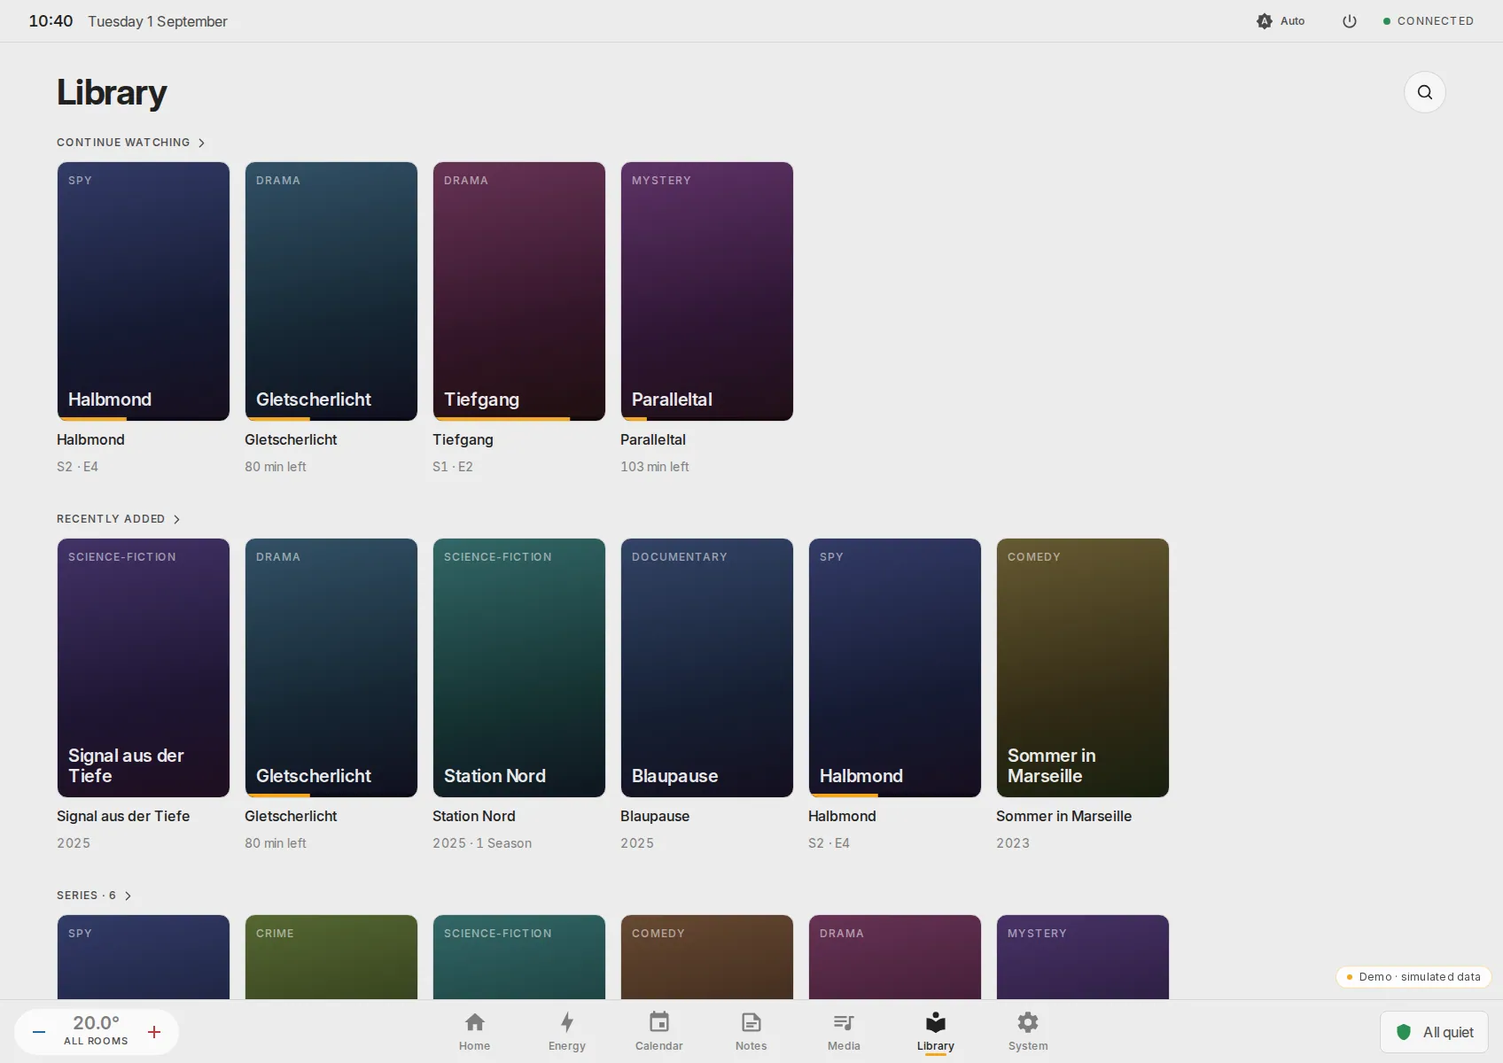
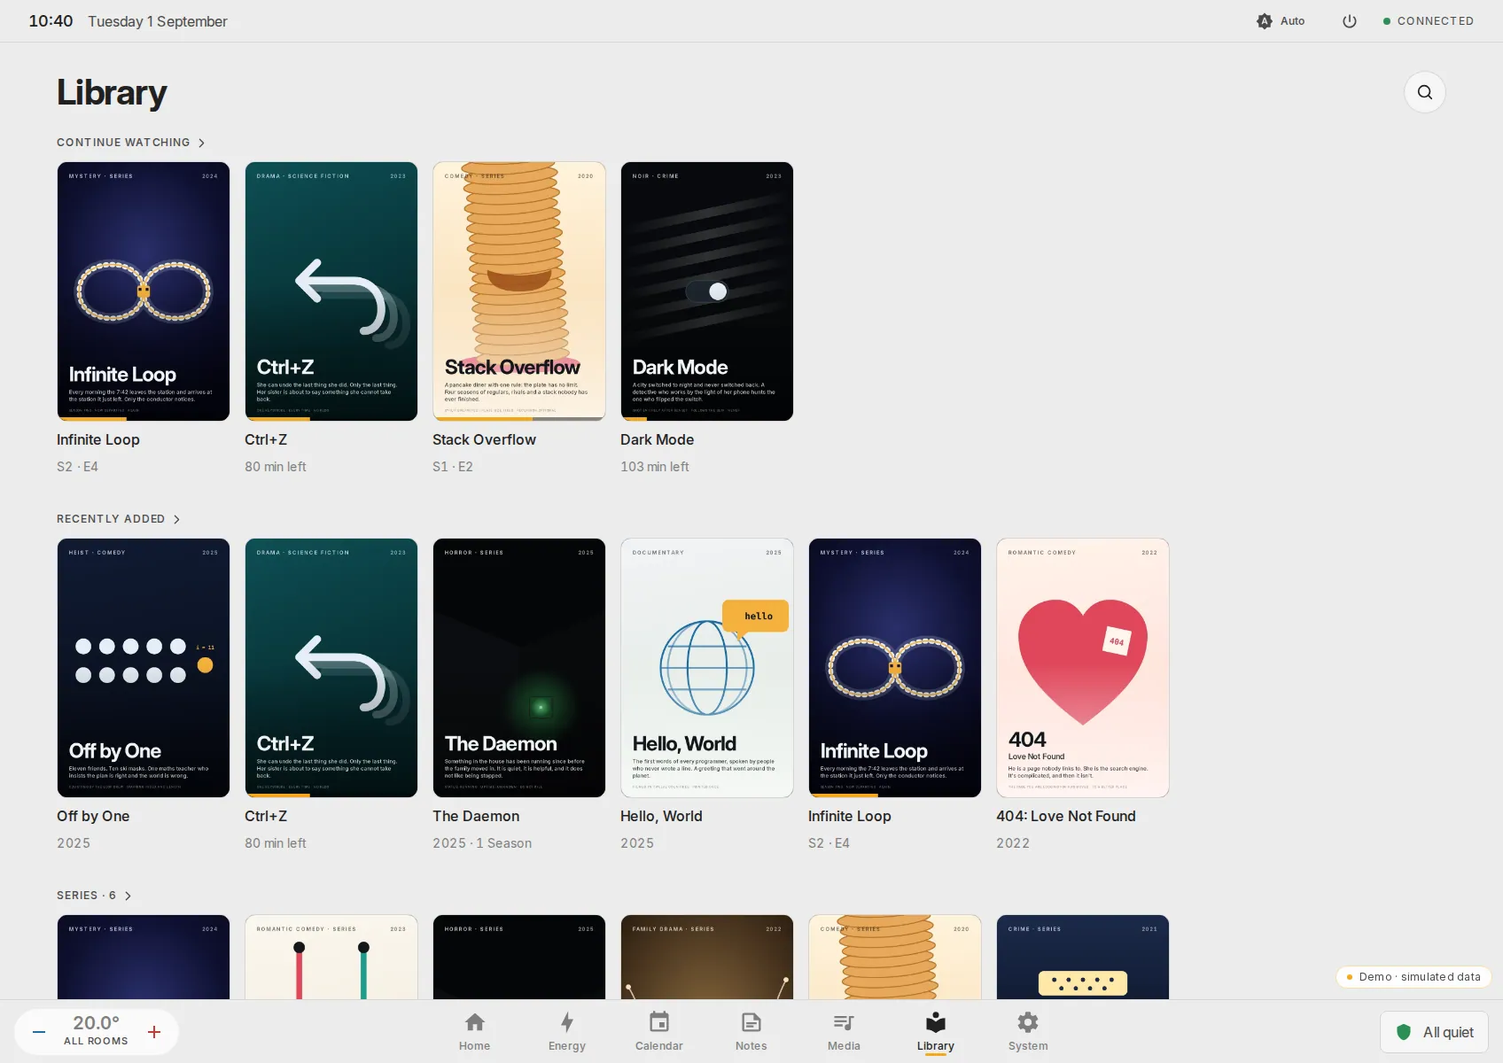
feat(demo): a fictional library with its own posters; season tabs translated
The demo library used to be sixteen German-titled placeholders drawn as
coloured gradients. It is now sixteen invented films and series in
English, each with a poster of its own: "Off by One" (eleven friends, ten
ski masks), "Ctrl+Z", "404: Love Not Found", "The Rubber Duck", "Kernel
Panic" (a popcorn machine with a mind of its own), "The Cache Also Rises",
"Dark Mode", "Big Endian", "Hello, World", "Race Condition", and the
series "Infinite Loop", "Merge Conflict", "Legacy Code", "Serial Port",
"The Daemon" and "Stack Overflow". The jokes lean on words people meet at
a keyboard without needing to write code; genres run from western to
documentary. Overviews, episode titles and taglines are English.

The posters are 640 x 960 WebP files under `public/demo-posters/` (about
320 KB in total) rendered from a small design system in Inter: a genre
line, one graphic idea per title, the title, a tagline and a credits line.
They are static assets outside the offline precache. `LibraryItem` gains
an optional `poster` for the fake data, and MediaCard falls back to it when
no Jellyfin `primaryTag` is set; live libraries are unaffected, and the
`hue` placeholder remains for items without artwork.

The detail screen's season tabs said "Staffel n" in every language; they
use the existing `library_season` message now. The generic fixture
episodes are "Episode n" like the rest of the invented content, without a
message call at module start, because the runtime bootstrap tests load the
[…]

diff --git a/app/src/lib/state/app.svelte.ts b/app/src/lib/state/app.svelte.ts
@@ -77,6 +77,9 @@ export interface LibraryItem {
      bleiben beim `hue`-Platzhalter. Die Poster-URL baut die UI über
      `jellyfin.imageUrl(id, { tag })` zur passenden Render-Größe. */
   primaryTag?: string; backdropTag?: string; logoTag?: string;
+  /* Statisches Poster der Fake-Bibliothek (relative URL unter dem Basispfad
+     des Builds). Nur die Demo-Daten setzen es; die Jellyfin-Zuordnung nie. */
+  poster?: string;
 }
 
 export interface Playback {
@@ -97,14 +100,18 @@ export interface SystemService {
   id: string; name: string; status: 'online' | 'degraded' | 'offline'; detail: string;
 }
 
-/* Generische Staffel für die Fake-Bibliothek (nur nicht-Feature-Serien —
+/* Generische Staffel für die Fake-Bibliothek — englische Folgentitel wie der
+   Rest der erfundenen Inhalte; bewusst kein Message-Aufruf beim Modulstart,
+   weil Tests das Modul ohne Browser-Speicher laden (nur nicht-Feature-Serien —
    „Halbmond" hat handgeschriebene Folgentitel). watchedThrough = Folgen 1…n
    gelten als gesehen. */
+const POSTER_BASE = `${import.meta.env.BASE_URL}demo-posters/`;
+
 function makeSeason(n: number, count: number, dur: number, watchedThrough = 0): Season {
   return {
     n,
     episodes: Array.from({ length: count }, (_, i) => ({
-      n: i + 1, title: `Folge ${i + 1}`, dur, watched: i < watchedThrough, pos: 0,
+      n: i + 1, title: `Episode ${i + 1}`, dur, watched: i < watchedThrough, pos: 0,
     })),
   };
 }
@@ -138,120 +145,144 @@ export const appState = $state({
     ],
   },
   /* Jellyfin-Bibliothek (docs/07 Screens 6–8, docs/08): Fake-Daten mit
-     Poster-Platzhaltern — pro Item ein Farbton (--ph) statt Artwork;
-     echte Poster kommen über /Items/{id}/Images/Primary?maxWidth&tag.
+     eigenen Postern — sechzehn erfundene Filme und Serien, deren Titel mit
+     Begriffen aus dem Alltag am Rechner spielen (Ctrl+Z, 404, ein Stapel
+     Pfannkuchen ohne Limit). Die Poster liegen als kleine WebP-Dateien unter
+     public/demo-posters/ und sind bewusst nicht im Offline-Precache; `hue`
+     bleibt der Platzhalter, falls ein Poster fehlt. Echte Poster kommen über
+     /Items/{id}/Images/Primary?maxWidth&tag.
      pos/ep.pos in Sekunden = Resume-Punkt (Jellyfin: PositionTicks). */
   library: {
     currentId: null as string | null,
     season: 1, // im Detail ausgewählte Staffel
     items: [
       {
-        id: 'signal', type: 'movie', title: 'Signal aus der Tiefe', year: 2025, fsk: 12,
-        genres: ['Science-Fiction'], hue: 258, runtime: 8280, added: 1, pos: 0, cw: 0,
-        overview: 'Eine Forschungsstation im Nordatlantik empfängt ein Muster, das es nicht geben dürfte. Die Ozeanografin Marla Jansen muss entscheiden, wem sie die Entdeckung meldet — und wem besser nicht.',
+        id: 'off-by-one', type: 'movie', title: "Off by One", year: 2025, fsk: 12,
+        genres: ["Heist", "Comedy"], hue: 258, runtime: 6480, added: 1, pos: 0, cw: 0,
+        poster: `${POSTER_BASE}off-by-one.webp`,
+        overview: "Eleven friends plan the perfect heist and buy ten ski masks. The eleventh, a maths teacher, insists the plan is correct and the world is counting wrong.",
       },
       {
-        id: 'gletscherlicht', type: 'movie', title: 'Gletscherlicht', year: 2025, fsk: 12,
-        genres: ['Drama'], hue: 205, runtime: 7680, added: 2, pos: 2880, cw: 3,
-        overview: 'Nach dem Tod ihres Vaters kehrt die Glaziologin Ada Brenner ins Hochtal ihrer Kindheit zurück. Zwischen schmelzendem Eis und alten Rechnungen findet sie ein Tagebuch, das die Geschichte des Dorfes neu schreibt.',
+        id: 'ctrl-z', type: 'movie', title: "Ctrl+Z", year: 2023, fsk: 12,
+        genres: ["Drama", "Science Fiction"], hue: 180, runtime: 7680, added: 2, pos: 2880, cw: 3,
+        poster: `${POSTER_BASE}ctrl-z.webp`,
+        overview: "After a lab accident, Mira can undo the last thing she did. Only the last thing. Her sister is about to say something she cannot take back.",
       },
       {
-        id: 'letzte-schicht', type: 'movie', title: 'Die letzte Schicht', year: 2024, fsk: 16,
-        genres: ['Thriller'], hue: 12, runtime: 6240, added: 9, pos: 0, cw: 0,
-        overview: 'Im stillgelegten Bergwerk Konrad II soll eine letzte Nachtschicht die Pumpen abstellen. Als der Aufzug ausfällt, merkt Steiger Wollny, dass jemand von der Belegschaft nicht auf der Liste steht.',
+        id: 'hello-world', type: 'movie', title: "Hello, World", year: 2025, fsk: 0,
+        genres: ["Documentary"], hue: 205, runtime: 5220, added: 4, pos: 0, cw: 0,
+        poster: `${POSTER_BASE}hello-world.webp`,
+        overview: "The first words of every programmer, spoken by people who never wrote a line. A documentary about a greeting that went around the planet, and the twelve countries that answered.",
       },
       {
-        id: 'nordwind', type: 'movie', title: 'Nordwind', year: 2023, fsk: 6,
-        genres: ['Adventure'], hue: 150, runtime: 5760, added: 8, pos: 0, cw: 0,
-        overview: 'Die zwölfjährige Juno segelt mit ihrem Großvater das alte Postboot die Küste hinauf — gegen den Wind, gegen die Zeit und gegen den Plan ihrer Eltern, das Boot zu verkaufen.',
+        id: 'love-not-found', type: 'movie', title: "404: Love Not Found", year: 2022, fsk: 6,
+        genres: ["Romantic Comedy"], hue: 350, runtime: 6060, added: 6, pos: 0, cw: 0,
+        poster: `${POSTER_BASE}love-not-found.webp`,
+        overview: "He is a page nobody links to. She is the search engine. A romantic comedy about being found by the one person who was actually looking.",
       },
       {
-        id: 'kastanienjahre', type: 'movie', title: 'Kastanienjahre', year: 2022, fsk: 12,
-        genres: ['Drama'], hue: 35, runtime: 6720, added: 11, pos: 0, cw: 0,
-        overview: 'Drei Geschwister erben das Gasthaus ihrer Mutter — und mit ihm die Frage, warum der Vater 1989 nicht zurückkam. Ein Sommer zwischen Renovierung und Wahrheit.',
+        id: 'dark-mode', type: 'movie', title: "Dark Mode", year: 2023, fsk: 16,
+        genres: ["Noir", "Crime"], hue: 230, runtime: 7260, added: 7, pos: 1080, cw: 1,
+        poster: `${POSTER_BASE}dark-mode.webp`,
+        overview: "A city switched to night and never switched back. A detective who works only by the light of her phone hunts the one who flipped the switch.",
       },
       {
-        id: 'paralleltal', type: 'movie', title: 'Paralleltal', year: 2024, fsk: 16,
-        genres: ['Mystery'], hue: 290, runtime: 7260, added: 7, pos: 1080, cw: 1,
-        overview: 'Ein Vermessungsingenieur findet in den Karten zweier Jahrzehnte dasselbe Seitental — nur liegt es jedes Mal woanders. Je genauer er misst, desto weniger stimmt die Landschaft.',
+        id: 'rubber-duck', type: 'movie', title: "The Rubber Duck", year: 2024, fsk: 0,
+        genres: ["Family", "Animation"], hue: 45, runtime: 5460, added: 8, pos: 0, cw: 0,
+        poster: `${POSTER_BASE}rubber-duck.webp`,
+        overview: "A small yellow duck never says a word, yet everyone who explains their problem to it walks away with the answer. Now the duck is missing, and the town has questions.",
       },
       {
-        id: 'acht-stunden', type: 'movie', title: 'Acht Stunden', year: 2021, fsk: 16,
-        genres: ['Thriller'], hue: 0, runtime: 5340, added: 12, pos: 0, cw: 0,
-        overview: 'Eine Nachtdienst-Ärztin, ein abgeriegeltes Kreiskrankenhaus, ein Patient ohne Akte. Acht Stunden bis zur Frühschicht — erzählt in Echtzeit.',
+        id: 'race-condition', type: 'movie', title: "Race Condition", year: 2024, fsk: 16,
+        genres: ["Thriller"], hue: 12, runtime: 6240, added: 9, pos: 0, cw: 0,
+        poster: `${POSTER_BASE}race-condition.webp`,
+        overview: "Two couriers are handed the same key to a vault that opens exactly once. Whoever arrives second was never there. Told twice, from both sides.",
       },
       {
-        id: 'sommer-marseille', type: 'movie', title: 'Sommer in Marseille', year: 2023, fsk: 6,
-        genres: ['Comedy'], hue: 45, runtime: 6060, added: 6, pos: 0, cw: 0,
-        overview: 'Der pensionierte Lokführer Herbert Kaminski will nur seinen Koffer zurück. Die Fluggesellschaft schickt ihn dafür quer durch Marseille — und mitten in die Familienfeier der Fahrerin Amira.',
+        id: 'cache-also-rises', type: 'movie', title: "The Cache Also Rises", year: 2020, fsk: 12,
+        genres: ["Drama"], hue: 25, runtime: 7020, added: 11, pos: 0, cw: 0,
+        poster: `${POSTER_BASE}cache-also-rises.webp`,
+        overview: "A village bakery remembers every order ever placed and bakes it again before you ask. Then a stranger orders something new.",
       },
       {
-        id: 'kartograf', type: 'movie', title: 'Der Kartograf', year: 2020, fsk: 12,
-        genres: ['History'], hue: 190, runtime: 8040, added: 13, pos: 0, cw: 0,
-        overview: '1783: Der junge Kartograf Elias Vogt soll das Erzgebirge neu vermessen. Doch seine Karten zeigen, was der Hof nicht sehen will — leere Dörfer, verlassene Gruben, hungernde Täler.',
+        id: 'kernel-panic', type: 'movie', title: "Kernel Panic", year: 2021, fsk: 12,
+        genres: ["Disaster"], hue: 0, runtime: 5340, added: 12, pos: 0, cw: 0,
+        poster: `${POSTER_BASE}kernel-panic.webp`,
+        overview: "The world's biggest cinema installs a popcorn machine with a mind of its own. On opening night it decides the show will not go on.",
       },
       {
-        id: 'blaupause', type: 'movie', title: 'Blaupause', year: 2025, fsk: 0,
-        genres: ['Documentary'], hue: 220, runtime: 5220, added: 4, pos: 0, cw: 0,
-        overview: 'Wie baut man eine Stadt, die es noch nicht gibt? Zwei Jahre hinter den Kulissen des größten Holzbau-Quartiers Europas — vom ersten Modell bis zum Einzug.',
+        id: 'big-endian', type: 'movie', title: "Big Endian", year: 2019, fsk: 12,
+        genres: ["Western"], hue: 35, runtime: 8040, added: 13, pos: 0, cw: 0,
+        poster: `${POSTER_BASE}big-endian.webp`,
+        overview: "A frontier town has argued for forty years about which end of Main Street is the beginning. A stranger arrives with a measuring tape and no opinion.",
       },
       {
-        id: 'halbmond', type: 'series', title: 'Halbmond', year: 2024, fsk: 16,
-        genres: ['Spy', 'Drama'], hue: 230, added: 5, cw: 4,
+        id: 'infinite-loop', type: 'series', title: "Infinite Loop", year: 2024, fsk: 16,
+        genres: ["Mystery"], hue: 265, added: 5, cw: 4,
         lastPlayed: { season: 2, ep: 4 },
-        overview: 'Ost-Berlin, 1983: Die Übersetzerin Vera Salt führt ein Doppelleben zwischen zwei Diensten. Als ihr Führungsoffizier verschwindet, weiß sie nicht mehr, für wen ihre Berichte eigentlich bestimmt sind.',
+        poster: `${POSTER_BASE}infinite-loop.webp`,
+        overview: "Every morning the 7:42 leaves the station and arrives at the station it just left. Only the conductor notices, and she is running out of ways to say so.",
         seasons: [
           { n: 1, episodes: [
-            { n: 1, title: 'Ankunft', dur: 3060, watched: true, pos: 0 },
-            { n: 2, title: 'Deckname Aster', dur: 2940, watched: true, pos: 0 },
-            { n: 3, title: 'Der Brief', dur: 3000, watched: true, pos: 0 },
-            { n: 4, title: 'Tote Winkel', dur: 3120, watched: true, pos: 0 },
-            { n: 5, title: 'Grenzverkehr', dur: 2880, watched: true, pos: 0 },
-            { n: 6, title: 'Das Archiv', dur: 3060, watched: true, pos: 0 },
-            { n: 7, title: 'Nachtfahrt', dur: 2940, watched: true, pos: 0 },
-            { n: 8, title: 'Übergabe', dur: 3300, watched: true, pos: 0 },
+            { n: 1, title: 'Departure', dur: 3060, watched: true, pos: 0 },
+            { n: 2, title: 'Arrival', dur: 2940, watched: true, pos: 0 },
+            { n: 3, title: 'Departure', dur: 3000, watched: true, pos: 0 },
+            { n: 4, title: 'Arrival', dur: 3120, watched: true, pos: 0 },
+            { n: 5, title: 'Loop Line', dur: 2880, watched: true, pos: 0 },
+            { n: 6, title: 'Terminus', dur: 3060, watched: true, pos: 0 },
+            { n: 7, title: 'Terminus', dur: 2940, watched: true, pos: 0 },
+            { n: 8, title: 'Terminus', dur: 3300, watched: true, pos: 0 },
           ] },
           { n: 2, episodes: [
-            { n: 1, title: 'Rückkehr', dur: 3060, watched: true, pos: 0 },
-            { n: 2, title: 'Alte Schulden', dur: 2940, watched: true, pos: 0 },
-            { n: 3, title: 'Doppelgänger', dur: 3000, watched: true, pos: 0 },
-            { n: 4, title: 'Das Netz', dur: 3120, watched: false, pos: 1250 },
-            { n: 5, title: 'Stille Post', dur: 2940, watched: false, pos: 0 },
-            { n: 6, title: 'Gegenlicht', dur: 3060, watched: false, pos: 0 },
-            { n: 7, title: 'Maulwurf', dur: 2940, watched: false, pos: 0 },
-            { n: 8, title: 'Endspiel', dur: 3480, watched: false, pos: 0 },
+            { n: 1, title: 'Same Train', dur: 3060, watched: true, pos: 0 },
+            { n: 2, title: 'Different Day', dur: 2940, watched: true, pos: 0 },
+            { n: 3, title: 'The Timetable', dur: 3000, watched: true, pos: 0 },
+            { n: 4, title: 'Signal Failure', dur: 3120, watched: false, pos: 1250 },
+            { n: 5, title: 'Return Ticket', dur: 2940, watched: false, pos: 0 },
+            { n: 6, title: 'Platform Nine', dur: 3060, watched: false, pos: 0 },
+            { n: 7, title: 'Last Stop', dur: 2940, watched: false, pos: 0 },
+            { n: 8, title: 'First Stop', dur: 3480, watched: false, pos: 0 },
           ] },
         ],
       },
       {
-        id: 'revier', type: 'series', title: 'Revier', year: 2023, fsk: 12,
-        genres: ['Crime'], hue: 80, added: 10, cw: 0, lastPlayed: null,
-        overview: 'Eine Kommissarin kehrt aus Hamburg zurück ins Ruhrgebiet ihrer Jugend. Jeder Fall führt tiefer in ein Geflecht aus Zechen-Erbe, Familienbanden und Dingen, über die man im Revier nicht spricht.',
-        seasons: [makeSeason(1, 6, 2700, 6), makeSeason(2, 6, 2700, 6), makeSeason(3, 6, 2760, 2)],
+        id: 'merge-conflict', type: 'series', title: "Merge Conflict", year: 2023, fsk: 6,
+        genres: ["Romantic Comedy"], hue: 150, added: 10, cw: 0,
+        lastPlayed: null,
+        poster: `${POSTER_BASE}merge-conflict.webp`,
+        overview: "Two families move into one house with two sets of rules. Nobody will delete a line, so they keep both. A comedy about the parts that overlap.",
+        seasons: [makeSeason(1, 8, 1560, 8), makeSeason(2, 8, 1560, 3)],
       },
       {
-        id: 'station-nord', type: 'series', title: 'Station Nord', year: 2025, fsk: 12,
-        genres: ['Science-Fiction'], hue: 180, added: 3, cw: 0, lastPlayed: null,
-        overview: 'Sechs Überwinterer, eine Polarstation, neun Monate Dunkelheit. Als der Funkkontakt abbricht, empfängt die Station weiter Nachrichten — abgestempelt mit dem Datum des nächsten Frühjahrs.',
+        id: 'the-daemon', type: 'series', title: "The Daemon", year: 2025, fsk: 16,
+        genres: ["Horror"], hue: 120, added: 3, cw: 0,
+        lastPlayed: null,
+        poster: `${POSTER_BASE}the-daemon.webp`,
+        overview: "Something in the house has been running since before the family moved in. It is quiet, it is helpful, and it does not like being stopped.",
         seasons: [makeSeason(1, 8, 2820)],
       },
       {
-        id: 'werkstatt', type: 'series', title: 'Die Werkstatt', year: 2022, fsk: 6,
-        genres: ['Comedy'], hue: 25, added: 14, cw: 0, lastPlayed: null,
-        overview: 'Halb Autowerkstatt, halb Dorfparlament: Bei Meisterin Rosi Lindner wird mehr repariert als nur Autos. Vier Staffeln über Kundschaft, Kaffee und die große Frage, wem der Parkplatz vorm Tor gehört.',
-        seasons: [makeSeason(1, 10, 1560, 10), makeSeason(2, 10, 1560, 10), makeSeason(3, 10, 1620, 10), makeSeason(4, 10, 1620, 4)],
+        id: 'legacy-code', type: 'series', title: "Legacy Code", year: 2022, fsk: 12,
+        genres: ["Family Drama"], hue: 30, added: 14, cw: 0,
+        lastPlayed: null,
+        poster: `${POSTER_BASE}legacy-code.webp`,
+        overview: "Three siblings inherit their grandfather's workshop, a customer list from 1974 and a manual nobody can read. Everything still works. Nobody knows why.",
+        seasons: [makeSeason(1, 6, 2700, 6), makeSeason(2, 6, 2760, 2)],
       },
       {
-        id: 'tiefgang', type: 'series', title: 'Tiefgang', year: 2024, fsk: 16,
-        genres: ['Drama'], hue: 320, added: 15, cw: 2,
+        id: 'stack-overflow', type: 'series', title: "Stack Overflow", year: 2020, fsk: 6,
+        genres: ["Comedy"], hue: 40, added: 15, cw: 2,
         lastPlayed: { season: 1, ep: 2 },
-        overview: 'Eine Binnenschifferfamilie, drei Generationen, ein Frachter mit Hypothek. Zwischen Rotterdam und Basel verhandelt jede Fahrt neu, wer an Bord das Sagen hat — und wer von Bord geht.',
-        seasons: [makeSeason(1, 6, 2580, 1), makeSeason(2, 6, 2640)],
+        poster: `${POSTER_BASE}stack-overflow.webp`,
+        overview: "A pancake diner with one rule: the plate has no limit. Four seasons of regulars, rivals and a stack that has never once been finished.",
+        seasons: [makeSeason(1, 10, 1560, 1), makeSeason(2, 10, 1560), makeSeason(3, 10, 1620), makeSeason(4, 10, 1620)],
       },
       {
-        id: 'funkstille', type: 'series', title: 'Funkstille', year: 2021, fsk: 12,
-        genres: ['Mystery'], hue: 265, added: 16, cw: 0, lastPlayed: null,
-        overview: 'Ein Küstenort verliert für sieben Minuten jede Verbindung zur Außenwelt — Netz, Radio, Festnetz. Niemand erinnert sich an die Zeit dazwischen. Dann tauchen die ersten Aufnahmen auf.',
+        id: 'serial-port', type: 'series', title: "Serial Port", year: 2021, fsk: 16,
+        genres: ["Crime"], hue: 215, added: 16, cw: 0,
+        lastPlayed: null,
+        poster: `${POSTER_BASE}serial-port.webp`,
+        overview: "A harbour detective takes cases one at a time, in the order they arrive, and refuses to be rushed. The harbour does not agree.",
         seasons: [makeSeason(1, 8, 2640, 8), makeSeason(2, 8, 2640, 8), makeSeason(3, 8, 2700)],
       },
     ] as LibraryItem[],
@@ -277,7 +308,7 @@ export const appState = $state({
 });
 
 /* Resume-Punkt in einer generierten Staffel nachtragen (Tiefgang S1E2 läuft) */
-appState.library.items.find((i) => i.id === 'tiefgang')!.seasons![0].episodes[1].pos = 2050;
+appState.library.items.find((i) => i.id === 'stack-overflow')!.seasons![0].episodes[1].pos = 900;
 
 // Dev-Handle: appState im Preview-Browser inspizierbar (window.__hmi.appState).
 if (typeof window !== 'undefined') {

diff --git a/website/index.html b/website/index.html
@@ -818,13 +818,19 @@
           players with the same controls — choosing what plays in the kitchen is
           no different from turning on the kitchen light.
         </p>
+        <p class="body-text">
+          The sixteen films and series in the demo are its own inventions, posters
+          included. <em>Off by One</em>, <em>Ctrl+Z</em>, <em>The Cache Also
+          Rises</em>: nobody has to be a developer to get the joke, and nobody's
+          real library is on display.
+        </p>
       </div>
       <div class="device reveal">
         <img src="media/library.webp"
              srcset="media/library-700.webp 700w, media/library-1100.webp 1100w, media/library.webp 1696w"
              sizes="(min-width: 880px) 540px, 100vw"
              width="1696" height="1200" loading="lazy" decoding="async"
-             alt="The library screen with horizontal shelves of cover art under the headings Continue watching and Recently added.">
+             alt="The library screen with shelves of poster art for fictional films and series under the headings Continue watching, Recently added and Series.">
       </div>
     </div>
   </div>

diff --git a/app/src/lib/screens/LibraryDetailScreen.svelte b/app/src/lib/screens/LibraryDetailScreen.svelte
@@ -97,7 +97,7 @@
           {#each item.seasons! as s (s.n)}
             <button class="season-pill pressable" class:is-active={s.n === appState.library.season}
                     type="button" role="radio" aria-checked={s.n === appState.library.season}
-                    onclick={() => { appState.library.season = s.n; }}>Staffel {s.n}</button>
+                    onclick={() => { appState.library.season = s.n; }}>{m.library_season()} {s.n}</button>
           {/each}
         </div>
         <div class="episode-list">

diff --git a/app/src/lib/components/MediaCard.svelte b/app/src/lib/components/MediaCard.svelte
@@ -10,9 +10,11 @@
 
   let imgFailed = $state(false);
   const posterUrl = $derived(
-    item.primaryTag && !imgFailed
-      ? jellyfin.imageUrl(item.id, { type: 'Primary', tag: item.primaryTag, maxWidth: 300 })
-      : null,
+    imgFailed
+      ? null
+      : item.primaryTag
+        ? jellyfin.imageUrl(item.id, { type: 'Primary', tag: item.primaryTag, maxWidth: 300 })
+        : item.poster ?? null,
   );
 
   const cw = $derived(continueInfo(item));

diff --git a/README.md b/README.md
@@ -132,8 +132,8 @@ phone captures are 390 × 844 at 2×. All of them come from the demo build.
 | **Settings** — six groups and a search box | **Services** — the address your phone needs, as text and QR |
 | ![The notes screen with a shopping list grouped by shop and reminders as coloured post-its per person.](website/media/notes.webp) | ![The calendar screen showing a month grid with timed events, all-day entries and multi-day bars.](website/media/calendar.webp) |
 | **Everyday** — shopping and reminders without a second app | **Calendar** — every `calendar.*` entity you select, in one grid |
-| ![The library screen with horizontal shelves of cover art.](website/media/library.webp) | ![The energy screen with measured load, daily consumption, a flow diagram and an hourly chart; solar and grid left blank.](website/media/energy.webp) |
-| **Library** — Jellyfin, in the same design system | **Energy** — real sensors, honest gaps |
+| ![The library screen with shelves of poster art for fictional films and series.](website/media/library.webp) | ![The energy screen with measured load, daily consumption, a flow diagram and an hourly chart; solar and grid left blank.](website/media/energy.webp) |
+| **Library** — Jellyfin, in the same design system; the sixteen titles and their posters are the demo's own inventions | **Energy** — real sensors, honest gaps |
 
 <p align="center">
   <img src="website/media/phone-reminders-390.webp" width="200" alt="The phone reminders screen: post-its per person.">&nbsp;&nbsp;
